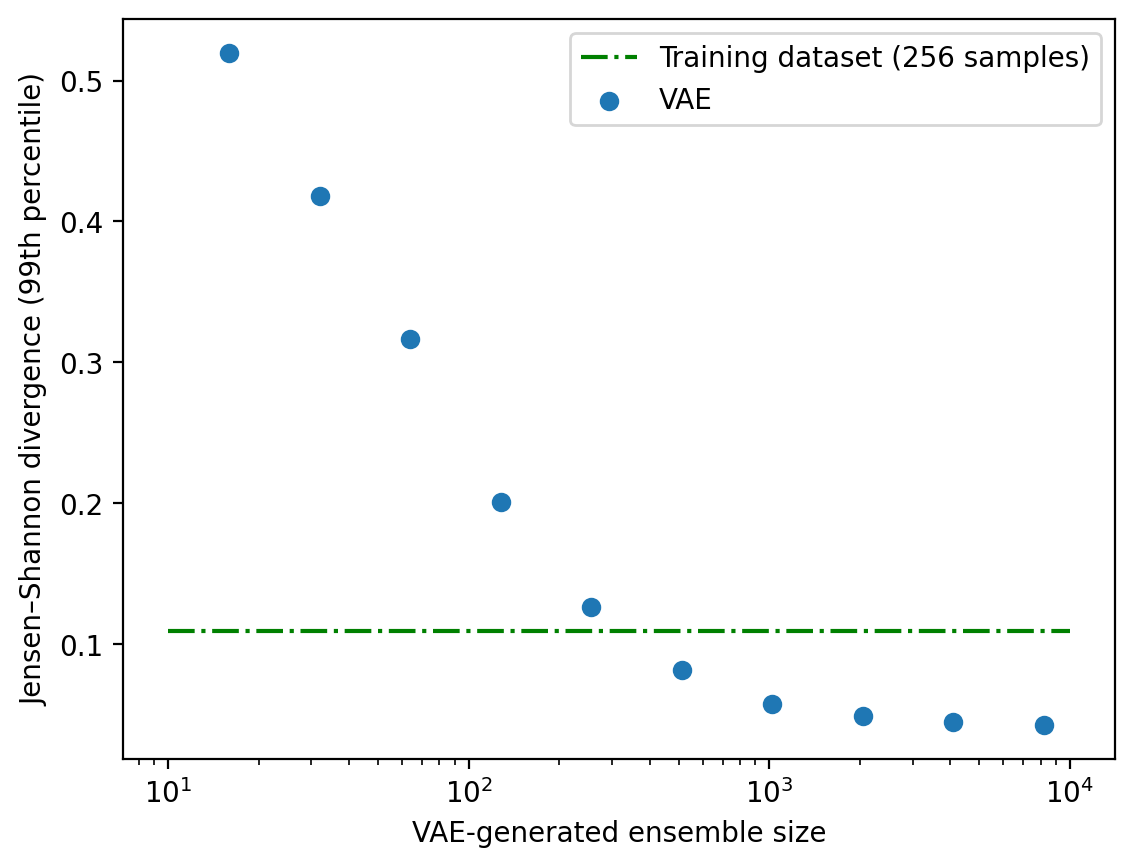
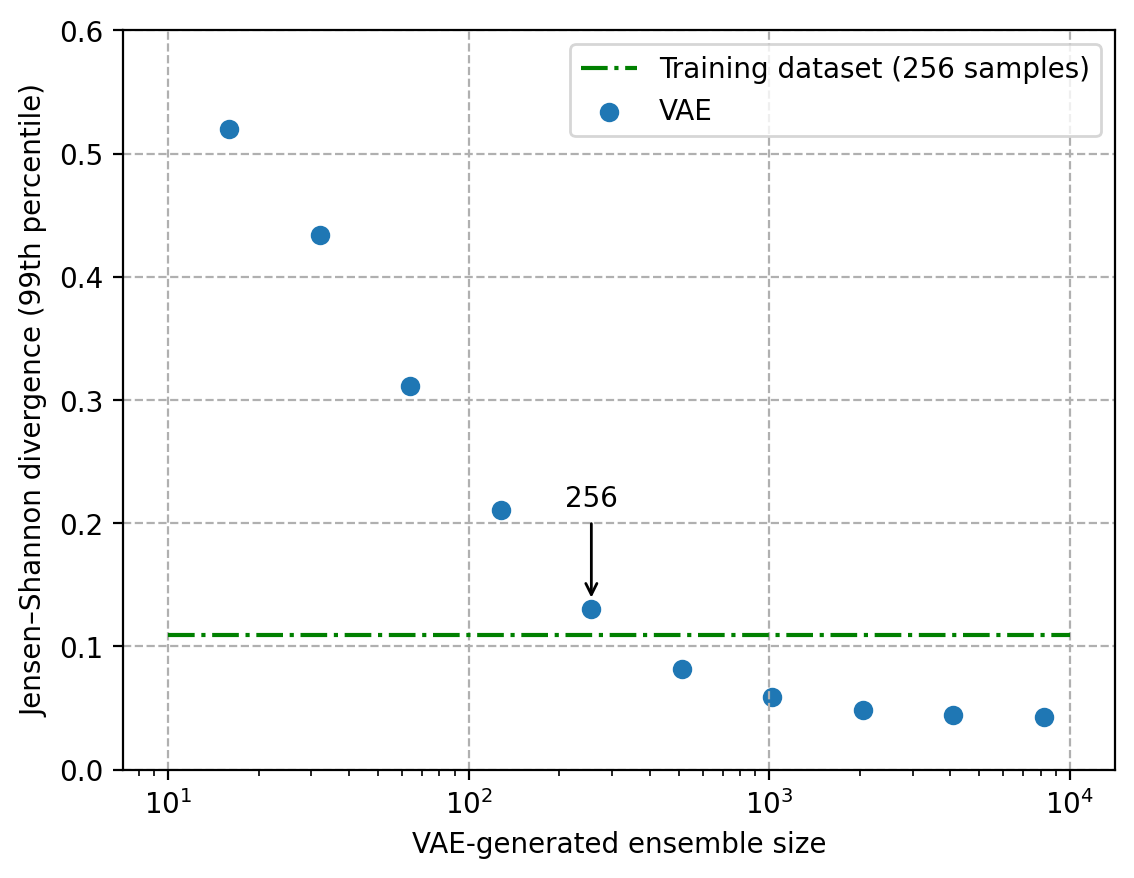
Update on Overleaf.

diff --git a/main.tex b/main.tex
@@ -10,8 +10,7 @@
 
 \begin{document}
 
-%\title{A generative AI model for volcanic ash dispersion}
-\title{Enhancing volcanic ash ensemble modelling with generative AI}
+\title{Expanding ensemble forecasts with generative AI: application to volcanic clouds}
 
 \Author[1][lmingari@csic.es]{Leonardo}{Mingari} %% correspondence author
 \Author[1]{Arnau}{Folch}
@@ -36,15 +35,11 @@
 \maketitle
 
 \begin{abstract}
-Ensemble modelling of volcanic dispersal is a popular approach for dealing with uncertainties in eruption source parameters, underpinning meteorological conditions and systematic errors in physics-based atmospheric transport models. Most of the ensemble modelling applications, such as quantification of forecast uncertainties, ensemble data assimilation or probabilistic volcanic hazard assessment, require large ensembles to mitigate sampling errors and properly capture probability distributions. 
+Modelling and forecasting the atmospheric dispersal of volcanic clouds using ensembles is a popular approach to deal with underlaying uncertainties in Eruption Source Parameters (ESP), meteorological data and systematic errors in atmospheric transport models. Most of the ensemble-based applications, such as quantification of forecast uncertainties, data assimilation or probabilistic hazard assessment, require a large number of ensemble members to mitigate sampling errors and to properly capture probability distributions. 
 %
-However, Volcanic Ash Transport and Dispersal (VATD) models are computationally demanding, making the simulation of large ensembles costly even for High-Performance Computing (HPC) clusters. As a result, operational forecasting is typically restricted to small ensembles to fit time-to-solution requirements with the available computational resources.
+However, simulations with large ensembles (hundreds to thousands of members) of Volcanic Ash Transport and Dispersal (VATD) models are computationally demanding, even for High-Performance Computing (HPC) clusters. As a result and in order to fit time-to-solution requirements, operational forecasting is typically restricted to smaller ensembles. In contrast, generative AI models can generate large and physically-consistent proxies with minimal computational cost. 
 %
-In contrast, generative AI models allow the rapid generation of large, physically consistent datasets with minimal computational cost. Some examples of physics-informed generative models preserving the underlying governing physical laws include Physics-Informed Neural Networks (PINNs), Diffusion Models with physical constraints, and Generative Adversarial Network (GANs) augmented with conservation laws.
-%
-In this work, a simple Variational Autoencoder (VAE) is trained using an ensemble of numerical simulations generated by a physical model. 
-%A small training ensemble is used to replicate the typical configuration found in operational forecasting frameworks. 
-We show that this machine learning strategy enables the generation of large ensembles of physically grounded data of volcanic ash concentration almost instantaneously, allowing a small ensemble of VATD model simulations to be expanded and enriched. The statistical properties of the generated ensemble are characterised in detail and the VAE performance is evaluated against a reference dataset composed of 2048 numerical simulations. The VAE-generated ensemble closely approximates the actual probability distribution, and key sample statistics, such as the ensemble mean and spread, with minimal degradation in evaluation metrics.
+In this work, a simple Variational Autoencoder (VAE) is trained using an ensemble of 256 numerical simulations generated with the FALL3D model and then used to generate a 10-fold larger ensemble almost instantaneously, allowing the smaller ensemble of physics-based FALL3D simulations to be enriched. The statistical properties of the expanded ensemble are characterised in detail and the the performance of the VAE is evaluated against a reference dataset composed of 2048 numerical simulations. The VAE-generated ensemble closely approximates the actual probability distribution as well as key sample statistics such as the ensemble mean and spread with minimal degradation in evaluation metrics.
 %
 Finally, we discuss possible future applications of this work, including latent space data assimilation via deep learning.
 \end{abstract}
@@ -53,55 +48,46 @@ Finally, we discuss possible future applications of this work, including latent 
 %
 % General overview
 %
-Real-time operational forecasts of volcanic ash plumes typically rely on numerical simulations based on physical models to make predictions of ash concentrations or potential aviation hazards. In order to produce realistic forecasts, Volcanic Ash Transport and Dispersal (VATD) models must describe several complex processes, including plume micro-scale dynamics, atmospheric long-range transport, particle sedimentation and deposition or the injection of volcanic aerosols into the atmosphere. However, the complexity of the physical phenomena, multiplicity of scales involved and the uncertainty in the quantification of the eruptive source term or meteorological fields, make the modelling of volcanic plumes challenging and forecasts based on numerical simulations are prone to large errors.
+Operational forecasts of volcanic ash and $SO_2$ clouds rely on physics-based numerical simulations giving ash concentrations and related aviation hazard products. In order to produce realistic forecasts, Volcanic Ash Transport and Dispersal (VATD) models must describe several complex processes, including plume micro-scale dynamics, atmospheric long-range transport, particle sedimentation and deposition or the injection of volcanic aerosols into the atmosphere. However, the complexity of the physical phenomena, the range of scales involved and the uncertainties in the quantification of the emission term and meteorological fields, make the modelling of volcanic clouds challenging and prone forecasts to large errors.
 %
 % Model uncertainties
 %
-Specifically, the so-called Eruption Source Parameters (ESP), such as those required to estimate the vertical mass distribution along the eruptive column, mass emission rates or particle size distributions, are recognised to be first-order contributors to model errors \citep{costa2016,poulidis2021}. The determination of the ESP is one of the major challenges in volcanic plume modelling due to limited real-time observations, complex eruptive dynamics and rapid variability in emission patterns.
+Specifically, the so-called Eruption Source Parameters (ESP), such as those required to estimate the vertical distribution of mass along the eruptive column, mass emission rates or particle size distributions, are recognised to be first-order contributors to model errors \citep{costa2016,poulidis2021}. In fact, the determination of the ESP is one of the major challenges in volcanic plume modelling due to limited real-time observations, complex eruptive dynamics and the rapid variability in emission patterns.
 %
 % Ensemble modelling
 %
-Ensemble modelling is a popular approach to deal with uncertainties associated with model parameters, spatial distribution and time dependency of eruptive emissions or meteorological data. In recent years, the increasing availability of high-performance computing (HPC) resources has significantly facilitated the use of ensemble modelling and this approach has been successfully applied across a wide range of scientific and engineering domains~\citep{wu2021}, particularly in weather forecasting~\citep{toth1997,leutbecher2008,bauer2015}.
-
+Ensemble modelling is a popular approach to deal with the uncertainties associated with model parameters, the spatial distribution and time dependency of emissions or the underpinning meteorological data. In recent years, the increasing availability of High-Performance Computing (HPC) resources has facilitated significantly the use of ensemble approaches across scientific and engineering domains~\citep{wu2021}, particularly in weather forecasting~\citep{toth1997,leutbecher2008,bauer2015}.
 %
 % Ensemble applications: error estimation, hazards studies, data assimilation
 %
-Volcanic cloud forecasting has also benefited from ensemble modelling, especially in areas like uncertainty quantification, hazard assessment and data assimilation. With the help of ensembles, it has been possible to characterise and quantify forecast uncertainties due to poorly constrained input parameters, errors in numerical model or uncertain weather data~\citep{stefanescu2014}, allowing for the enrichment of traditional forecast products based on deterministic models~\citep{folch2022}.
+Volcanic cloud forecasting has also benefited from ensemble modelling, especially in areas like uncertainty quantification, hazard assessment and data assimilation. With the help of ensembles, it has been possible to characterise and quantify forecast uncertainties due to poorly constrained input parameters, model errors or uncertain weather data~\citep{stefanescu2014}, expanding beyond traditional forecast products based on deterministic approaches~\citep{folch2022}.
 %
-Volcanic hazard assessment is of paramount importance to support risk-based decision-making and emergency management during volcanic crisis~\citep{sandri2025}. Quantitative volcanic hazard assessments, in particular, require estimating the probabilities that a given location will be affected by a volcanic eruption~\citep{marzocchi2006} and usually require ensembles with a large number of numerical simulations for a proper probabilistic hazard assessment~\citep{madankan2014,titos2022}.
+This is also true for volcanic hazard assessment, another aspect of paramount importance to support long-term risk-based decision-making and short-term emergency management during volcanic crises~\citep{sandri2025}. Probabilistic hazard assessments, in particular, require estimating the probabilities that a given airspace/location will be impacted by a volcanic cloud/fallout~\citep{marzocchi2006}, and usually require a large number of numerical simulations for a proper probabilistic hazard assessment~\citep{madankan2014,titos2022}.
 %
-In addition, model errors can be reduced by incorporating observations into numerical models using ensemble-based data assimilation techniques~\citep{kalnay2003}. Data assimilation (DA) techniques have been widely used to study and forecast geophysical systems and have been applied in a variety of research and operational settings~\citep{carrasi2018}. Similarly, several ensemble-based methods have been applied to the modelling of volcanic plumes~\citep{folch2023}, including ensemble Kalman filter methods~\citep{fu2016,fu2017,osores2020,pardini2020,mingari2022} and ensemble particle filtering~\citep{zidikheri2021,zidikheri2021b}.
+On the other hand, model errors can be reduced by incorporating observations into numerical models using ensemble-based data assimilation techniques~\citep{kalnay2003}. Data Assimilation (DA) techniques have been widely used to study and forecast geophysical systems and have been applied in a variety of research and operational settings~\citep{carrasi2018}. In particular, several ensemble-based methods have been applied in DA of volcanic plumes~\citep{folch2023}, including ensemble Kalman filter methods~\citep{fu2016,fu2017,osores2020,pardini2020,mingari2022} and ensemble particle filtering~\citep{zidikheri2021,zidikheri2021b}.
+In all these applications, the use of large ensembles can be prohibitively expensive even for HPC clusters, especially in the context of real-time operational services.
 
 %
 % Ensembles and computational costs
 %
-Most geophysical models are computationally demanding, making the simulation of large ensembles prohibitively expensive even for High-Performance Computing (HPC) clusters, especially in the context of real-time operational services. In order to accommodate the available computing resources in operational forecasting frameworks, ensembles are usually limited to a few tens of simulations, thus introducing significant sampling errors. 
+Operational forecast frameworks need to accommodate ensemble sizes to the available computing resources, resulting on ensembles limited to a few tens of members and the introduction of significant sampling errors. 
 %
 % Generative AI models
 %
-In contrast, generative AI models can generate thousands of samples almost instantaneously at very low computational cost. For this purpose, machine learning algorithms can be trained to generate results in agreement with the underlying physical laws governing the atmospheric dispersion and transport of volcanic ash. The Variarional Autoencoder or VAE~\citep{kingma2013} represents one of the most prominent examples of generative models. A VAE is a type of neural network that can learn a probabilistic mapping from a high-dimensional data space to a continuous latent space, typically of lower dimensionality than the original data, enabling the reconstruction and synthesis of new states by sampling from this learned representation.
+In contrast, generative AI models have the potential to generate thousands of samples almost instantaneously at very low computational cost. Machine Learning (ML) algorithms can be trained to generate results in agreement with the underlying physical laws, in our case the atmospheric dispersion and transport of volcanic products. Some examples of physics-informed generative models preserving the underlying governing physical laws include Physics-Informed Neural Networks (PINNs), Diffusion Models with physical constraints, and Generative Adversarial Network (GANs) augmented with conservation laws. Similarly, the Variarional Autoencoder or VAE~\citep{kingma2013} represents one of the most prominent examples of generative models. A VAE is a type of neural network that can learn a probabilistic mapping from a high-dimensional data space to a continuous latent space, typically of lower dimensionality than the original data, enabling the reconstruction and synthesis of new states by sampling from this learned representation.
 %
 % Applications
 %
-Generative AI models for volcanic clouds constitute a promising research area with broad potential applications, ranging from
-volcanic-cloud detection,
-probabilistic forecasting, 
-development of surrogate models for physical dispersion models,
-sensitivity analysis,
-uncertainty quantification, 
-hazard assessment and risk analysis, and
-data assimilation.
+%Generative AI models for volcanic clouds constitute a promising research area with broad potential applications, ranging from volcanic-cloud detection, probabilistic forecasting, development of surrogate models for physical dispersion models, sensitivity analysis, uncertainty quantification, hazard assessment and risk analysis, and data assimilation.
 %
 % Latent space data assimilation
 %
-Recently, several studies have demonstrated the benefits of using a low dimensional latent space for data assimilation purposes~\citep{pasmans2025}. \citet{chen2025} trained a VAE using sea-ice reanalysis data and conducted assimilation experiments with a particle-filter technique. The Latent Space Particle Filter (LSPF) approach takes advantage of a VAE to extract low-dimensional representations of sea ice physical fields, enabling a large number of low-dimensional samples to be generated. In this way, model errors can be significantly reduced by assimilating satellite observations of sea ice concentration and thickness.
-%
-Alternatively, \citet{pasmans2025} proposed a variant of the ensemble transform Kalman filter~\citep{bishop2001} in which the analysis update is applied in the latent space of a VAE. In addition, they also showed that by introducing a second latent space for the observational innovations, the performance can be improved when non-Gaussian observations errors are present.
+Several recent studies have demonstrated the benefits of using a low-dimensional latent space for data assimilation purposes~\citep{pasmans2025}. For example, \citet{chen2025} trained a VAE using sea-ice reanalysis data and conducted assimilation experiments with a particle-filter technique, taking advantage of a VAE to extract low-dimensional representations of sea ice physical fields and enabling a large number of low-dimensional samples to be generated. In this way, the authors significantly reduced model errors by assimilating satellite observations of sea ice concentration and thickness. Alternatively, \citet{pasmans2025} proposed a variant of the ensemble transform Kalman filter~\citep{bishop2001} in which the analysis update is applied in the latent space of a VAE. In addition, they also showed that by introducing a second latent space for the observational innovations, the performance can be improved when non-Gaussian observations errors are present.
 
 %
 % Motivation
 %
-Current studies employing AI and deep-learning approaches to volcanic ash dispersion have focused primarily on volcanic-cloud detection and segmentation from satellite imagery~\citep{torrisi2024,corradino2024}. However, the application of generative models to volcanic-cloud prediction remains largely unexplored.
+Previous studies employing AI-based approaches to volcanic ash dispersion have focused primarily on volcanic cloud detection and segmentation from satellite imagery~\citep{torrisi2024,corradino2024}. However, the application of generative AI models to volcanic-cloud prediction remains largely unexplored.
 %
 % Objectives
 %
@@ -187,7 +173,7 @@ A Variational Autoencoder (VAE) is a type of generative machine learning model b
   \label{fig:vae}
 \end{figure*}
 
-The VAE training is guided by a loss function balancing the fidelity of the data reconstruction against a term that regularizes the latent distributions toward a simple prior $p(\vec{z})$:
+VAE training is guided by a loss function balancing the fidelity of the data reconstruction against a term that regularizes the latent distributions toward a simple prior $p(\vec{z})$:
 
 \begin{equation}
   \mathcal{L}_{VAE}(\theta,\phi;\vec{x}) = -\mathbb{E}_{q_{\phi}(\vec{z}\vert\vec{x})}
@@ -297,12 +283,17 @@ The mean absolute percentage error (MAPE) provides a relative measure of the pre
   \label{eq:mape}
 \end{equation}
 
-The KL divergence is a measure of the difference between two probability distributions. Specifically, for two discrete distributions $P = \{p_i\}$ and $Q=\{q_i\}$, the KL divergence can be interpreted as the expected logarithmic difference between the probability distributions:
+The Jensen-Shannon (JS) divergence is a measure of the similarity between two probability distributions. Specifically, for two distributions $P = \{p_i\}$ and $Q=\{q_i\}$, the JS divergence is a symmetrized version of the KL divergence:
+\begin{equation}
+  JSD(P \Vert Q) = \dfrac{1}{2} D_{KL}(P \Vert M) + \dfrac{1}{2} D_{KL}(Q \Vert M)
+  \label{eq:js}
+\end{equation}
+where $M=\frac{1}{2}(P+Q)$ is a mixture distribution of $P$ and $Q$, while $D_{KL}$ can be interpreted as the expected logarithmic difference between the probability distributions:
 \begin{equation}
   D_{KL}(P \Vert Q) = \sum p_i \log \dfrac{p_i}{q_i}
   \label{eq:kl}
 \end{equation}
-The discrete distributions are estimated from histograms in this work.
+The discrete distributions in (\ref{eq:kl}) are estimated from histograms in this work.
 
 The two-dimensional isotropic power spectrum, $P(k)$, is computed in order to assess the ability of VAE to generate realistic samples over different spatial scales, in consistency with physical models. It is defined as the radially averaged 2D Power Spectrum Density (PSD) and is a function of the wavenumber magnitude, $k$:
 \begin{equation}
@@ -402,7 +393,7 @@ A proper assessment of natural hazards requires a good estimation of probabiliti
   \label{fig:exceedance}
 \end{figure*}
 
-In order to examine whether the VAE ensemble provides a better approximation to the actual distribution (target), the JS divergence, $JSD$, is computed for each location (Fig.~\ref{fig:js_divergence}). The discrete probability distributions are estimated from histograms (128 bins between 0 and 40) and the reference distributions, $P$, in~(\ref{eq:kl}) are those corresponding to the test dataset. In general, the VAE results are much lower than those of the training dataset across the whole domain. For example, the 99th-percentiles of $D_{KL}$ were 3.6 (training) and 0.3 (VAE), indicating that VAE provides a better approximation to the actual distribution with a 10x reduction of $D_{KL}$, approximately.
+In order to examine whether the VAE ensemble provides a better approximation to the actual distribution (target), the JS divergence, $JSD$, was computed for each grid cell. The discrete probability distributions are estimated from histograms (128 bins between 0 and 40) and $JSD$ was computed against the test dataset distribution using (\ref{eq:js}). Figure~\ref{fig:js_divergence} shows the $JSD$ for multiple VAE-generated ensemble sizes. The 99th percentile is reported as a measure of the worst-case scenario. For reference, $JSD$ for the training dataset is also shown. For ensemble sizes greater than 256, VAE outperforms the training distribution, reaching an asymptotic value of around $JSD \sim 0.042$ for large ensembles, which represents a 2.6x improvement over the training metric ($JSD=0.11$).
 
 \begin{figure}[ht]
   \centering
